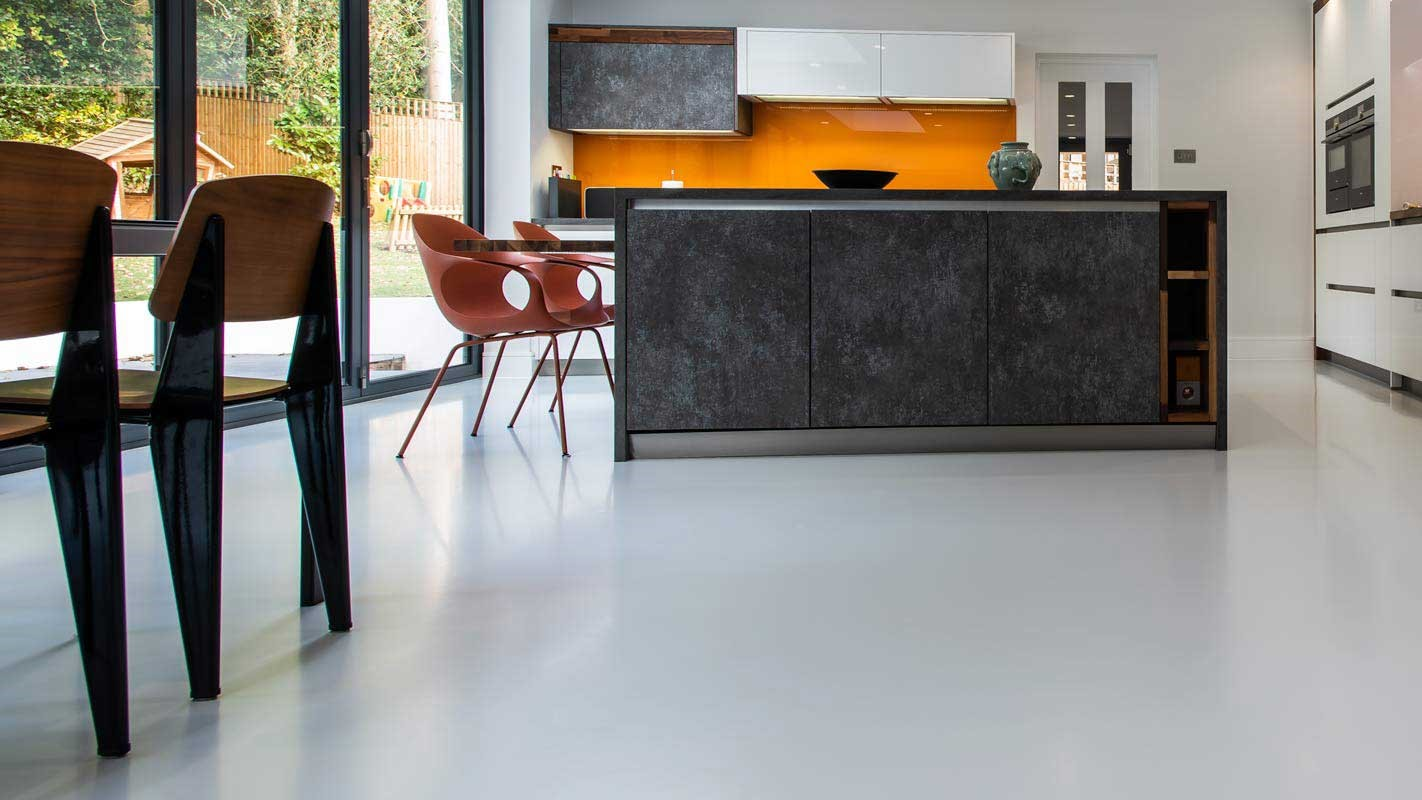
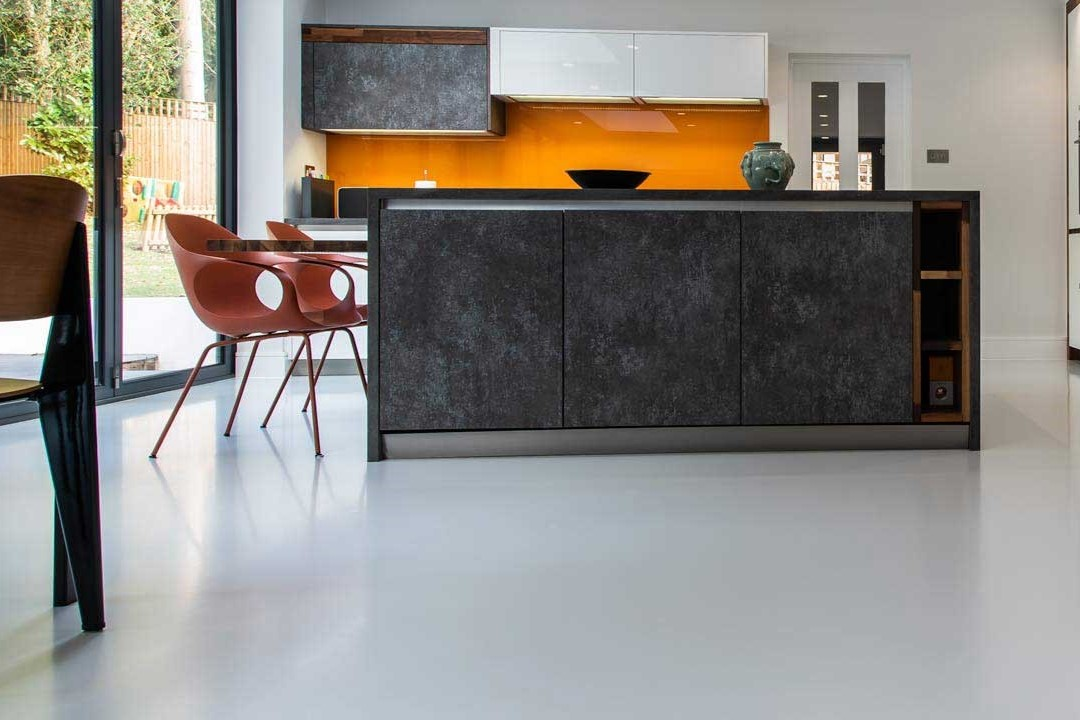
Zmiany

diff --git a/essresinart/app/page.tsx b/essresinart/app/page.tsx
@@ -123,14 +123,14 @@ export default function Home() {
             </div>
 
             <figure className="surface-card overflow-hidden p-4">
-              <div className="relative aspect-[5/4] overflow-hidden rounded-[calc(var(--radius-card)-0.5rem)]">
-                <Image
-                  src="/images/microcement-bathroom.jpg"
-                  alt="Microcement bathroom installation by EssResinArt"
-                  fill
-                  sizes="(max-width: 1023px) 100vw, 50vw"
-                  className="object-cover"
-                />
+                <div className="relative aspect-[5/4] overflow-hidden rounded-[calc(var(--radius-card)-0.5rem)]">
+                  <Image
+                    src="/images/epoxy-resin-floor-bathroom-Bristol.jpg"
+                    alt="Epoxy resin bathroom floor installation by EssResinArt"
+                    fill
+                    sizes="(max-width: 1023px) 100vw, 50vw"
+                    className="object-cover"
+                  />
               </div>
             </figure>
           </div>
@@ -265,9 +265,9 @@ export default function Home() {
                   </p>
                 </div>
                 <div className="flex flex-wrap gap-3">
-                  <a href={`mailto:${siteConfig.email}`} className="button-primary">
-                    Email EssResinArt
-                  </a>
+                  <Link href="/contact" className="button-primary">
+                    Contact EssResinArt
+                  </Link>
                   <Link href="/services" className="button-secondary border-white/20 bg-white/8 text-white hover:bg-white hover:text-[var(--color-ink)]">
                     Explore Services
                   </Link>

diff --git a/essresinart/app/services/epoxy-resin-flooring/page.tsx b/essresinart/app/services/epoxy-resin-flooring/page.tsx
@@ -363,9 +363,9 @@ export default function EpoxyResinFlooringPage() {
                   </p>
                 </div>
                 <div className="flex flex-wrap gap-3">
-                  <a href={`mailto:${siteConfig.email}`} className="button-primary">
-                    Email EssResinArt
-                  </a>
+                  <Link href="/contact" className="button-primary">
+                    Contact EssResinArt
+                  </Link>
                   <Link
                     href="/contact"
                     className="button-secondary border-white/20 bg-white/8 text-white hover:bg-white hover:text-[var(--color-ink)]"

diff --git a/essresinart/app/services/resin-bound-bristol/page.tsx b/essresinart/app/services/resin-bound-bristol/page.tsx
@@ -515,9 +515,9 @@ export default function ResinBoundBristolPage() {
                   </p>
                 </div>
                 <div className="flex flex-wrap gap-3">
-                  <a href={`mailto:${siteConfig.email}`} className="button-primary">
-                    Email EssResinArt
-                  </a>
+                  <Link href="/contact" className="button-primary">
+                    Contact EssResinArt
+                  </Link>
                   <Link
                     href="/contact"
                     className="button-secondary border-white/20 bg-white/8 text-white hover:bg-white hover:text-[var(--color-ink)]"

diff --git a/essresinart/app/services/venetian-plaster/page.tsx b/essresinart/app/services/venetian-plaster/page.tsx
@@ -374,9 +374,9 @@ export default function VenetianPlasterPage() {
                   </p>
                 </div>
                 <div className="flex flex-wrap gap-3">
-                  <a href={`mailto:${siteConfig.email}`} className="button-primary">
-                    Email EssResinArt
-                  </a>
+                  <Link href="/contact" className="button-primary">
+                    Contact EssResinArt
+                  </Link>
                   <Link
                     href="/contact"
                     className="button-secondary border-white/20 bg-white/8 text-white hover:bg-white hover:text-[var(--color-ink)]"

diff --git a/essresinart/app/services/page.tsx b/essresinart/app/services/page.tsx
@@ -64,9 +64,9 @@ export default function ServicesPage() {
                   </p>
                 </div>
                 <div className="flex flex-wrap gap-3">
-                  <a href={`mailto:${siteConfig.email}`} className="button-primary">
-                    Email EssResinArt
-                  </a>
+                  <Link href="/contact" className="button-primary">
+                    Contact EssResinArt
+                  </Link>
                   <Link
                     href="/contact"
                     className="button-secondary border-white/20 bg-white/8 text-white hover:bg-white hover:text-[var(--color-ink)]"

diff --git a/essresinart/lib/site.ts b/essresinart/lib/site.ts
@@ -178,7 +178,7 @@ export const projectHighlights = [
   },
   {
     title: "Outdoor resin patios and paths",
-    image: "/images/resin-patio-pathway-Bristol.jpeg",
+    image: "/images/resin-patio.jpg",
     alt: "Resin patio pathway installed in a residential outdoor setting",
   },
 ] as const;
